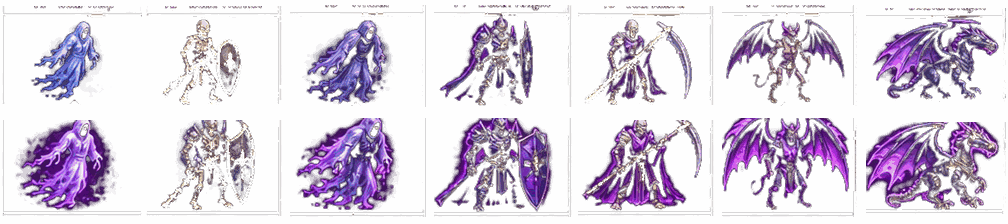
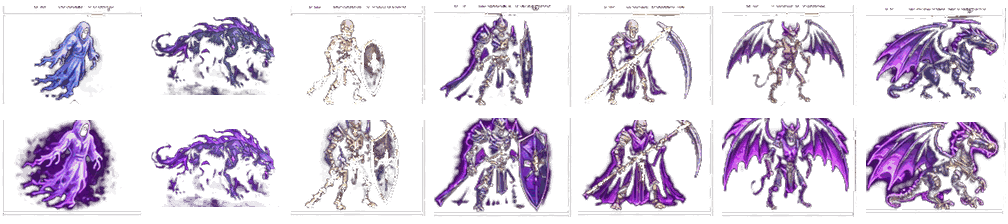
Replace T2 skeleton placeholders with painted dark hound concepts and audit remaining T3 archer mismatch

Changed region(s): [[0.1538, 0.5312, 0.4306, 0.9688], [0.1538, 0.0, 0.4306, 0.4688], [0.5228, 0.8125, 0.5536, 0.8438]]

diff --git a/umbral-dominion/scripts/apply_concept_art.py b/umbral-dominion/scripts/apply_concept_art.py
@@ -26,8 +26,8 @@ def apply_painted_concepts(generated_dir,build_dir):
     stats={'creatures':0,'heroes':0,'townScenes':0,'approvedCharacterDesigns':0,
            'genuineAnimationSequences':0,
            'status':'PAINTED_ART_DIRECTION_CONCEPTS_NOT_PRODUCTION_SPRITES',
-           'problems':['T2 figures resemble skeleton warriors rather than named hounds',
-                       'T3 figures resemble wraiths rather than named archers',
+           'problems':['T2 painted quadruped wolf studies are concept-only; base and upgraded color variants need independent illustration',
+                       'T3 studies are skeleton warriors with incorrect swords/shields; actual ranged archer designs must be painted',
                        'Single illustrated still per creature: actions/flight/walk/death unanimated'],
            'sha256':{p.name:hashlib.sha256(p.read_bytes()).hexdigest() for p in files}}
     with Image.open(files[0]) as src:

diff --git a/umbral-dominion/README.md b/umbral-dominion/README.md
@@ -31,7 +31,7 @@ Official docs: https://vcmi.eu/modders/Readme/
 ## Release status — BLOCKED
 
 - GitHub Actions green means **JSON structure and archive packaging pass only**.
-- Some images are now original **AI-painted concept studies**; unfinished assets are still procedural placeholders. Tier-2 art depicts skeletons rather than named hounds, and tier-3 art depicts wraiths rather than named archers. The concepts are not roster-approved.
+- Some images are now original **AI-painted concept studies**; unfinished assets are still procedural placeholders. Tier-2 now depicts painted quadruped hounds (basic/upgraded color studies); tier-3 has humanoid skeleton studies without accurate ranged equipment and remains unapproved. The concepts are not roster-approved.
 - The 14 creatures require **distinct approved visual designs and individually authored motion frames**; mirrored or slightly shifted still images do not count.
 - Eight heroes need finished portraits and specialities; Ebonspire needs a professionally illustrated town, buildings, town map and screens.
 - Gameplay on **Windows VCMI has not been tested**.
@@ -45,7 +45,8 @@ Official docs: https://vcmi.eu/modders/Readme/
 - [x] 14 cropped painted creature stills loaded via `assets-source/creature-concepts.png`.
 - [x] 8 painted hero portrait studies loaded via `assets-source/hero-portraits.png`.
 - [x] GitHub Actions build and static archive QA **PASS** ([run #41231372364](https://github.com/Zatoot89/vcmi/actions/runs/41231372364)).
-- [ ] Correct T2 hound and T3 archer artwork and get visual approval for every unit.
+- [x] Replace the mismatched T2 skeleton concepts with painted dark hound studies.
+- [ ] Author separate upgraded hound design and real T3 archer/nightstalker art; obtain visual approval for every unit.
 - [ ] Produce 14 genuine, individually authored battle animations; static frames aren't movement.
 - [ ] Produce 36 aligned building overlays, map-town animations, siege/puzzle/UI graphics.
 - [ ] Test actual Windows VCMI gameplay with screenshots and logs.

diff --git a/umbral-dominion/ARTWORK_RELEASE_GATE.md b/umbral-dominion/ARTWORK_RELEASE_GATE.md
@@ -30,4 +30,4 @@ A single installable VCMI package with 14 distinct creature designs and animatio
 
 The `assets-source/` folder contains original AI-painted concept atlases, and `apply_concept_art.py` crops these into the build. The updated [GitHub Actions build](https://github.com/Zatoot89/vcmi/actions/runs/41231372364) passes JSON/package validation, not gameplay. It reports 14 creature stills, eight portrait studies and one painted background. **Zero** actual animation sequences are approved, and Windows runtime testing is still outstanding.
 
-**Known invalid creature mappings:** Gloom Hound / Dread Hound have skeleton-like studies and Veil Archer / Nightstalker have wraith-like studies. These must be replaced by real hound and archer designs before any art sign-off. Please don't treat image file counts or repeated still frames as completion.
+**Known invalid creature mappings:** Gloom Hound / Dread Hound now have painted four-legged wolf concepts but need independently drawn upgrades and animation. Veil Archer / Nightstalker still have skeleton warrior studies with wrong weapons; proper bow-wielding designs must be painted. Please don't treat image file counts or repeated still frames as completion.
